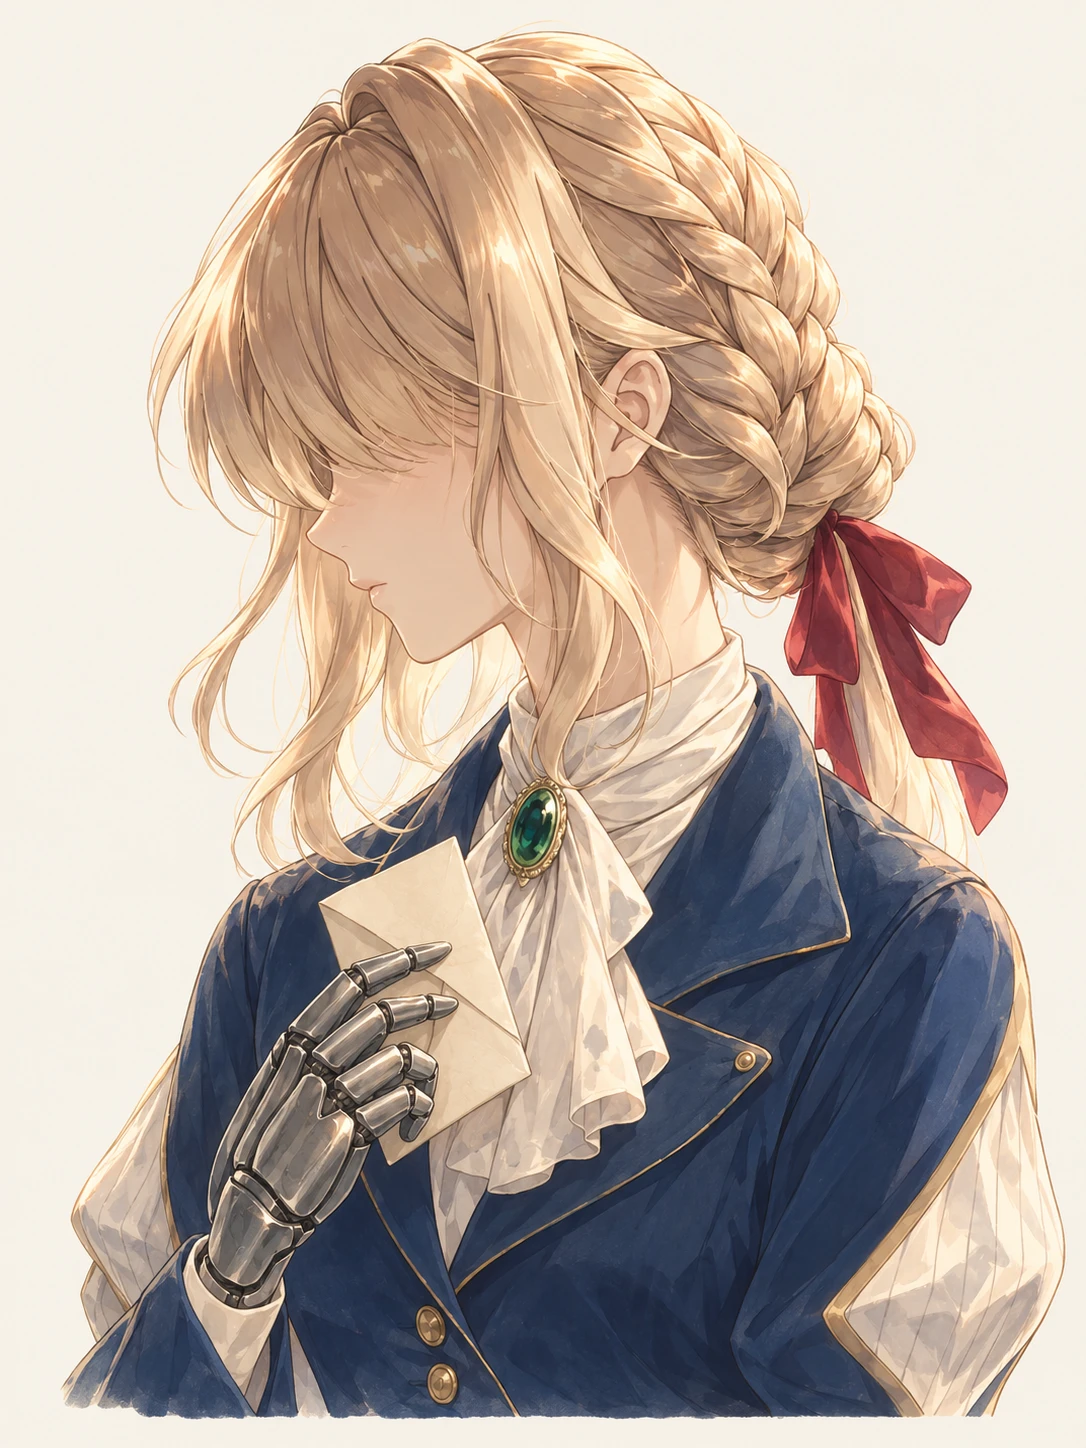
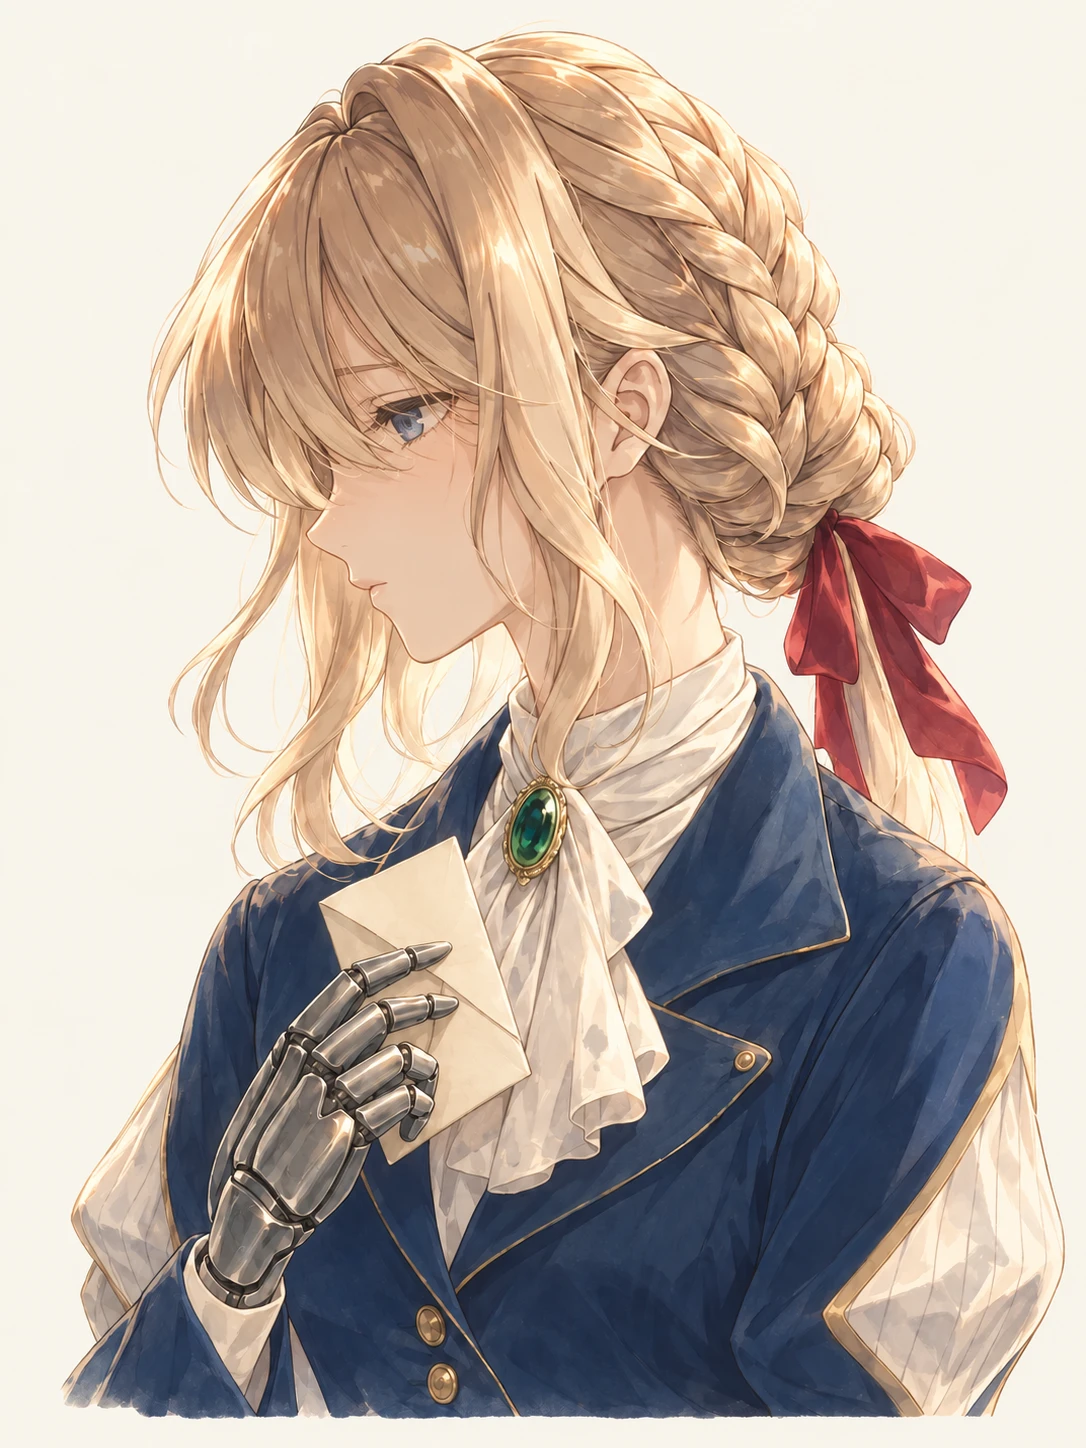
Refine portrait eye and expression beneath the fringe

diff --git a/docs/opening-assets.md b/docs/opening-assets.md
@@ -18,3 +18,5 @@
 生成要求：严格保持原线稿 3:4 画幅、人物朝左低头、刘海遮眼、发辫与缎带、胸针、单只机械手和信件的原有位置；在轮廓内加入金发、藏蓝外套、象牙白领巾、银色义手和祖母绿胸针，背景为 #f4f0e8 纸色，不加窗景、花、文字或装饰。
 
 原始动画由站主提供的 crchc/violet 源码移植，核心绘图文件保持原样。时间驱动部分适配到现有 React 页面，未引入 Svelte 或全页滚动占位；原镜头、28 秒绘画节奏、湿墨与亮色展开保留。
+
+眼部修订：按站主反馈，用内置 imagegen 仅调整刘海遮挡与眼部，露出一只自然的蓝色眼睛，保留低头左向的姿态、外轮廓、胸针和持信手的位置。提示要求：一只蓝色眼睛从刘海下自然显露，目光柔和向左下，略微柔化附近面部阴影，其余构图、比例、配色与背景保持原样。
